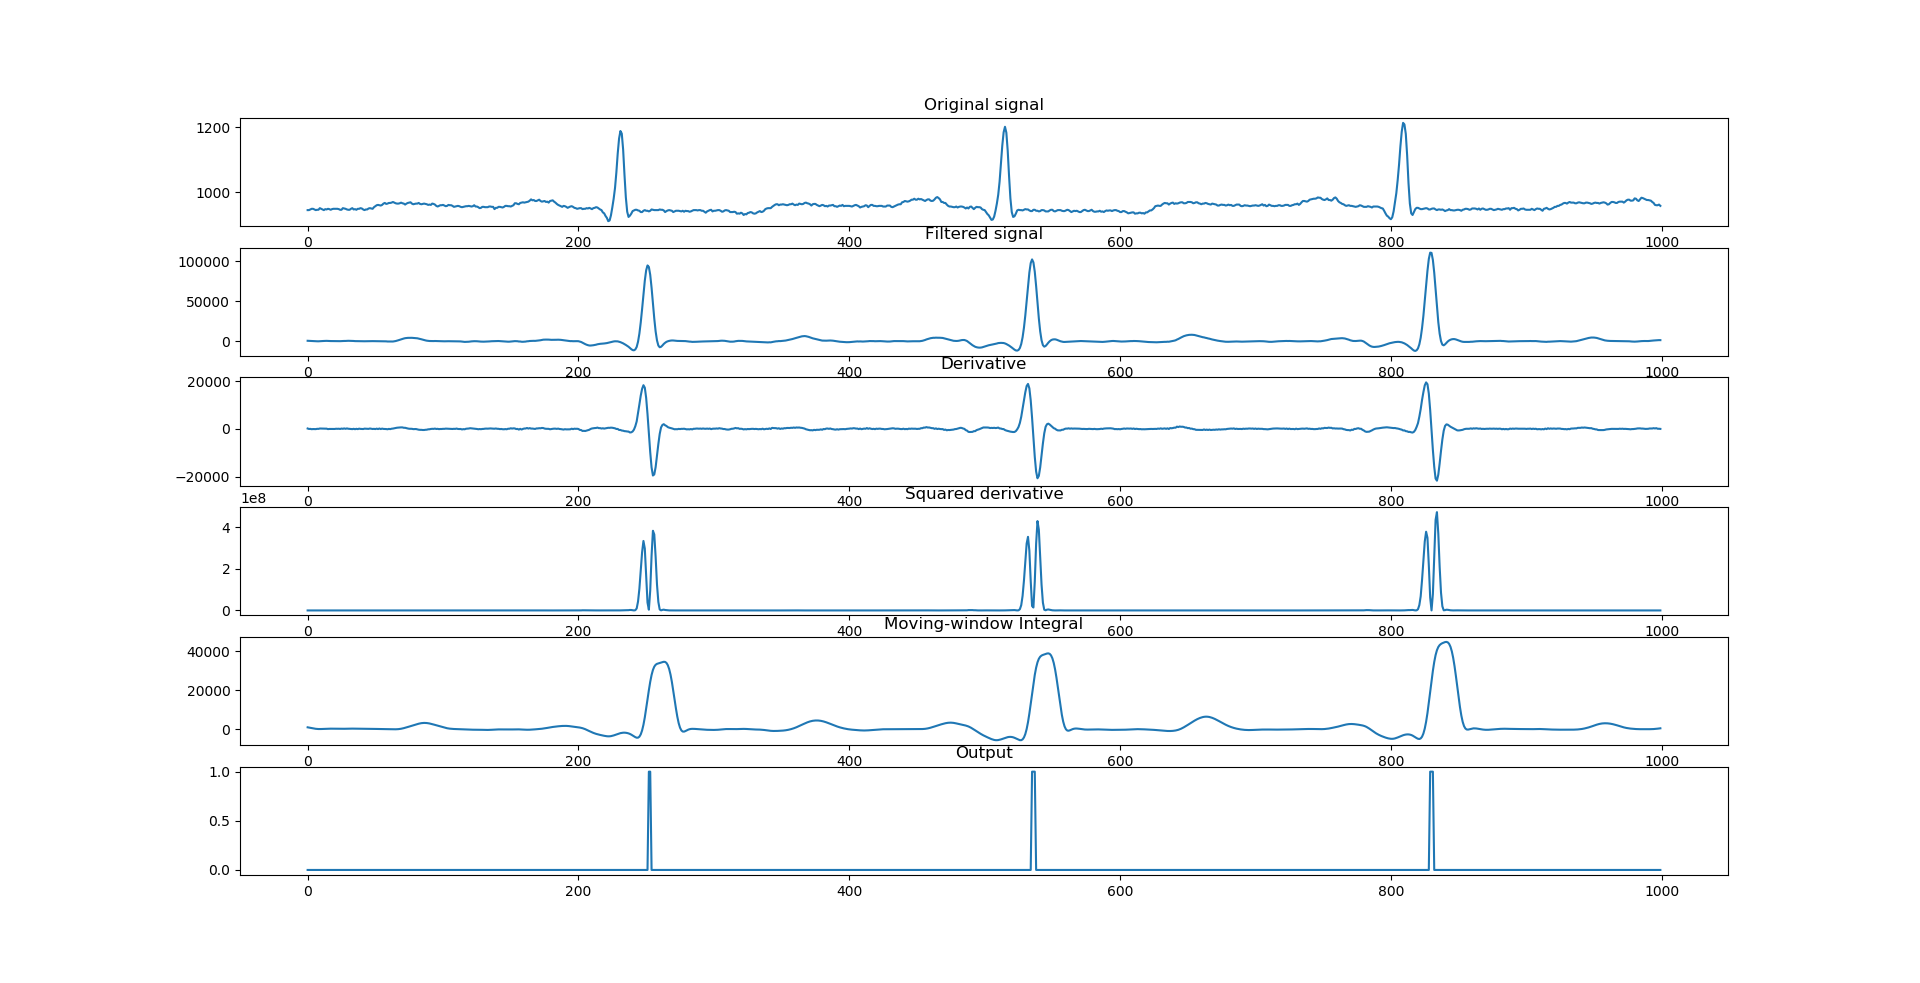
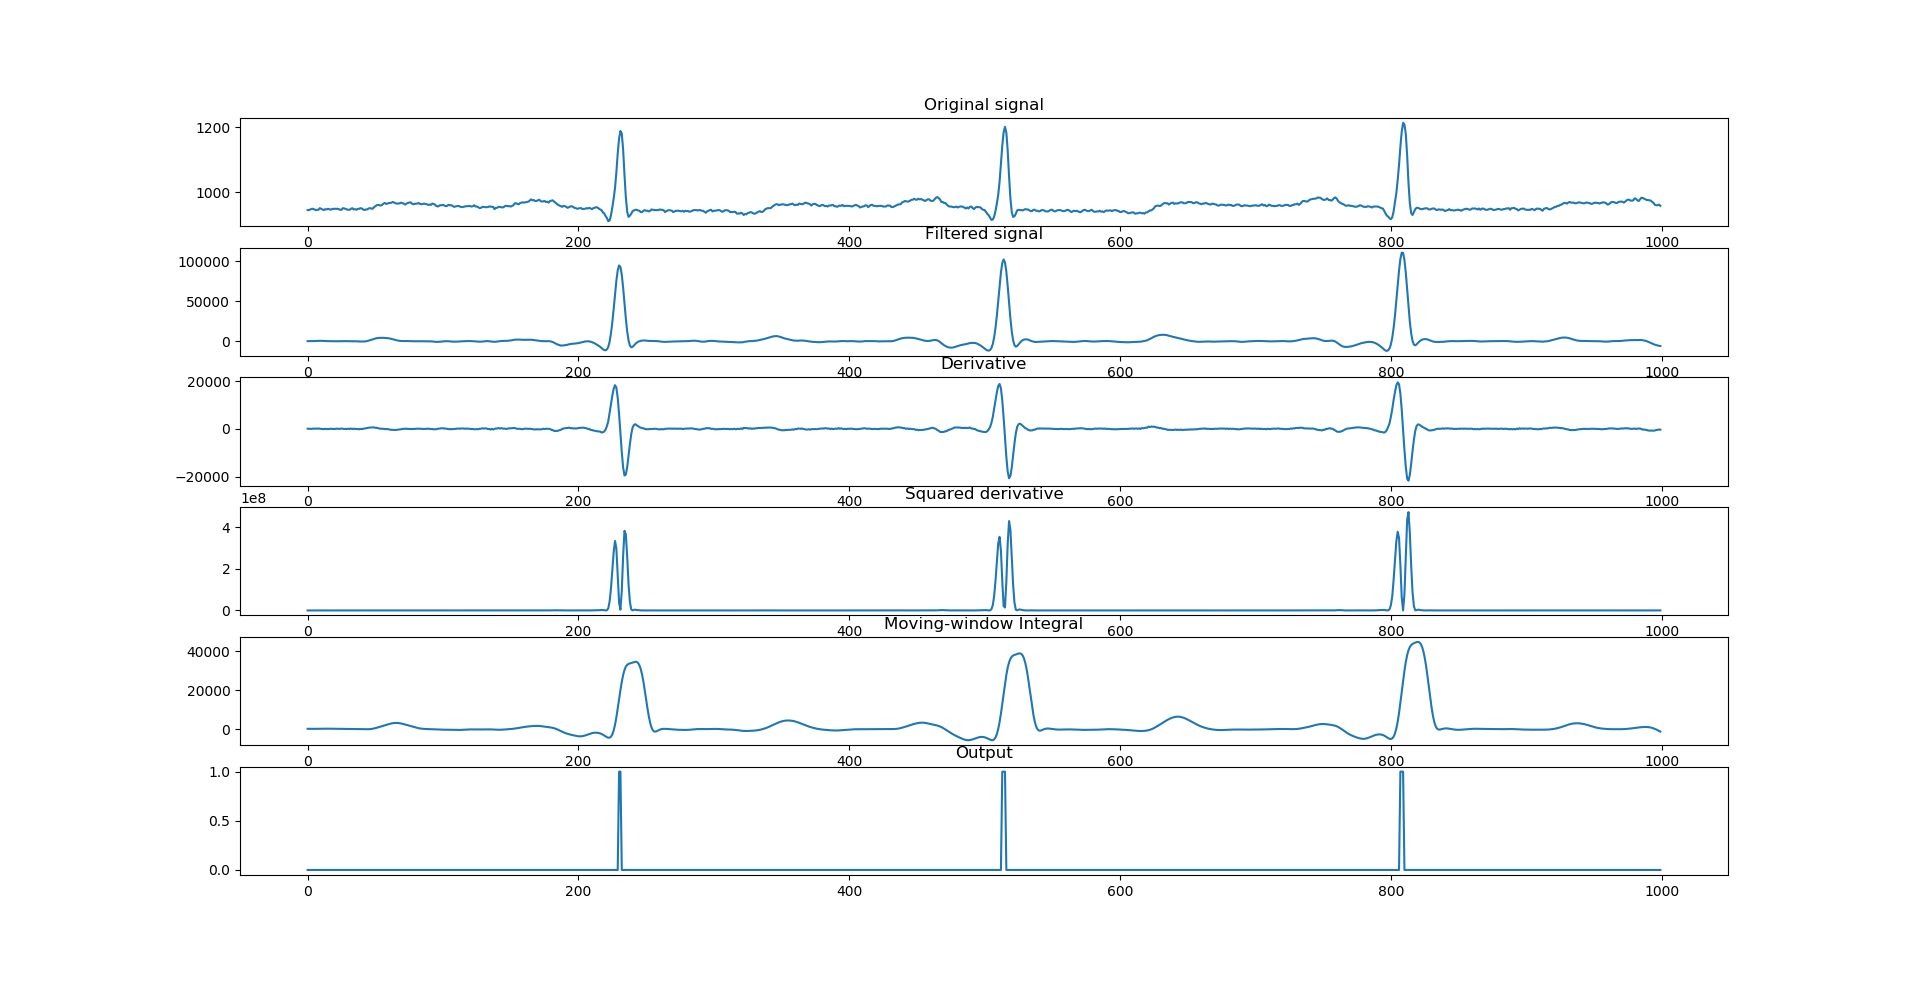
Removed delay added by the filters

diff --git a/panTompkins.c b/panTompkins.c
@@ -14,6 +14,8 @@
  *           |              | - Replaced constant value in code by its #define.  *
  *           |              | - Added some casting on comparisons to get rid of  *
  *           |              | compiler warnings.                                 *
+ * 2019/04/15| Rafael M. M. | - Removed delay added to the output by the filters.*
+ *           |              | - Fixed multiple detection of the same peak.       *
  * ------------------------------------------------------------------------------*
  * MIT License                                                                   *
  *                                                                               *
@@ -141,6 +143,10 @@
 #define FS 360          // Sampling frequency.
 #define BUFFSIZE 600    // The size of the buffers (in samples). Must fit more than 1.66 times an RR interval, which
                         // typically could be around 1 second.
+
+#define DELAY 22		// Delay introduced by the filters. Filter only output samples after this one.
+						// Set to 0 if you want to keep the delay. Fixing the delay results in DELAY less samples 
+						// in the final end result.
 
 #include "panTompkins.h"
 #include <stdio.h>      // Remove if not using the standard file functions.
@@ -402,7 +408,8 @@ void panTompkins()
 				threshold_f1 = npk_f + 0.25*(spk_f - npk_f);
                 threshold_f2 = 0.5*threshold_f1;
                 qrs = false;
-                output(qrs);
+				if (sample > DELAY)
+                	output(qrs);
                 continue;
             }
 
@@ -456,6 +463,9 @@ void panTompkins()
 					threshold_f1 /= 2;
 				}
 			}
+			if (sample > DELAY)
+				output(qrs);
+			continue;
 		}
 		// If no R-peak was detected, it's important to check how long it's been since the last detection.
 		else
@@ -550,8 +560,10 @@ void panTompkins()
 		// The current implementation outputs '0' for every sample where no peak was detected,
 		// and '1' for every sample where a peak was detected. It should be changed to fit
 		// the desired application.
-		output(qrs);
-	} while(signal[current] != NOSAMPLE);
+		// The 'if' accounts for the delay introduced by the filters. 
+		if (sample > DELAY)
+			output(qrs);
+	} while (signal[current] != NOSAMPLE);
 
 	// These last two lines must be deleted if you are not working with files.
 	fclose(fin);
